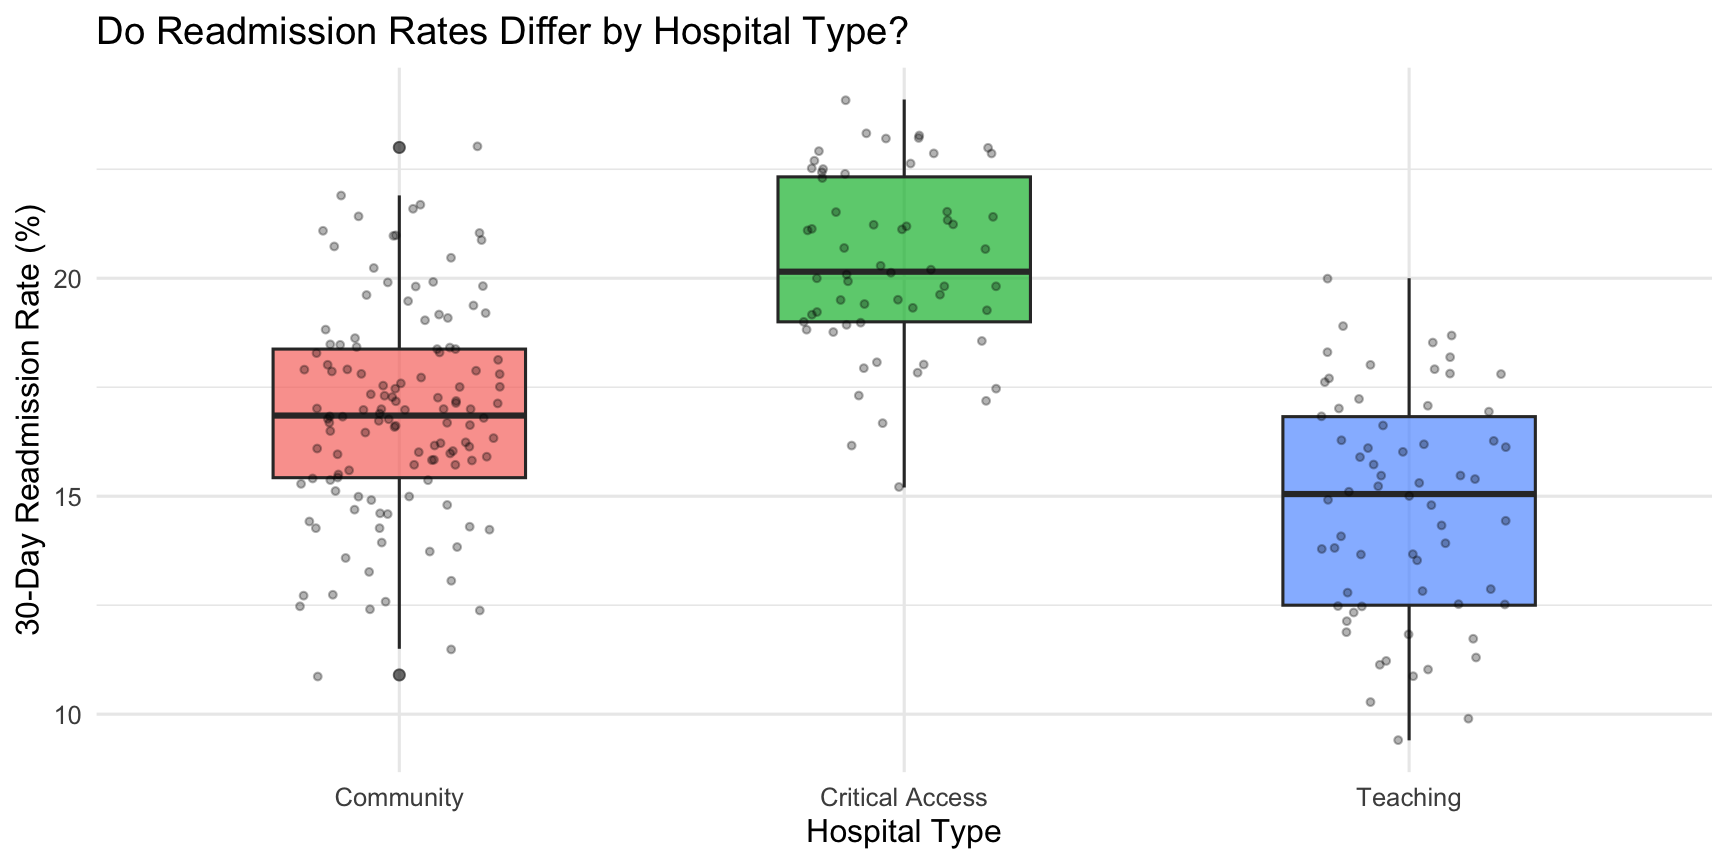
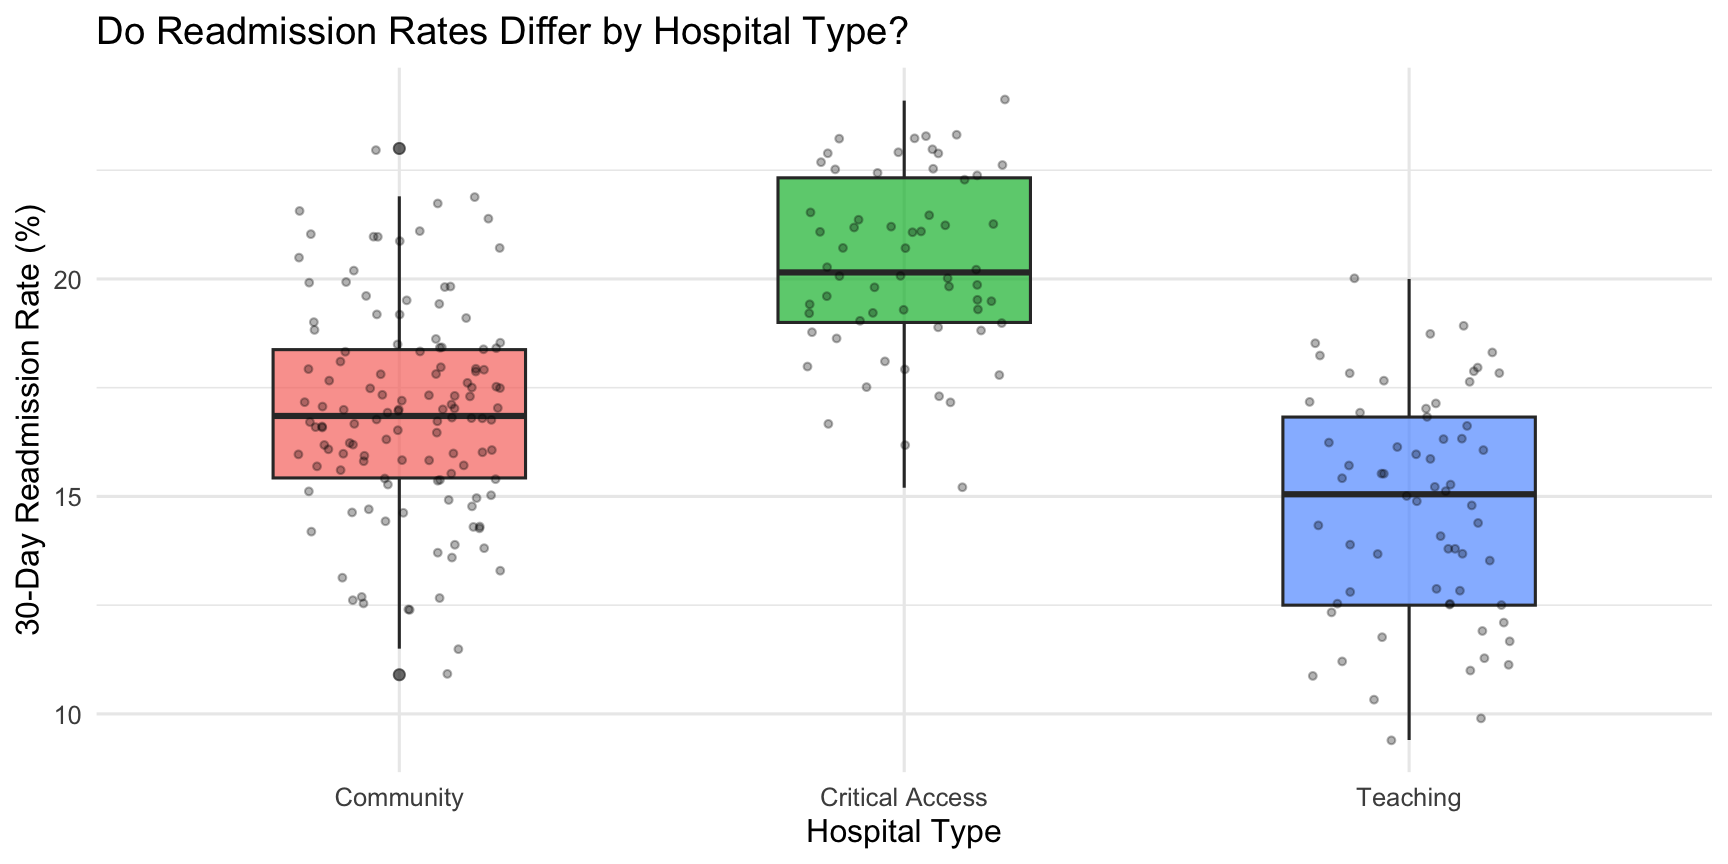
update

diff --git a/docs/lectures/Lecture13/Slide13.html b/docs/lectures/Lecture13/Slide13.html
@@ -10,7 +10,7 @@
   <meta name="generator" content="quarto-1.8.25">
 
   <meta name="author" content="">
-  <meta name="dcterms.date" content="2026-04-08">
+  <meta name="dcterms.date" content="2026-04-15">
   <title>Business Analytics in Healthcare Hanagement (MBA 642 - Spring 2026) – Logistic Regression</title>
   <meta name="apple-mobile-web-app-capable" content="yes">
   <meta name="apple-mobile-web-app-status-bar-style" content="black-translucent">
@@ -198,12 +198,12 @@
 
 <section id="title-slide" class="quarto-title-block center">
   <h1 class="title">Logistic Regression</h1>
-  <p class="subtitle">Week 13</p>
+  <p class="subtitle">Week 14</p>
 
 <div class="quarto-title-authors">
 </div>
 
-  <p class="date">2026-04-08</p>
+  <p class="date">2026-04-15</p>
 </section>
 <section id="todays-learning-goals" class="slide level2 scrollable">
 <h2>Today’s Learning Goals</h2>
@@ -1334,17 +1334,16 @@ Predicted   0   1
 <section id="assignments" class="slide level2 scrollable">
 <h2>Assignments</h2>
 <ol type="1">
-<li><strong>Week 13 Reflection</strong>: Please share your thoughts on the lecture</li>
+<li><strong>Week 14 Reflection</strong>: Please share your thoughts on the lecture</li>
 </ol>
 <ul>
 <li>3 interesting things</li>
 <li>3 confusing or unclear things</li>
 </ul>
-<p>Due by 11:59 PM on Sunday, April 12.</p>
-<div class="fragment">
-<p><br> 2. <strong>Lab Assignment 6</strong>: Logistic Regression</p>
-<p>We will postpone this assignment (will inform you next week)</p>
-</div>
+<ol start="2" type="1">
+<li><strong>Lab Assignment 6</strong>: Logistic Regression</li>
+</ol>
+<p>Both are due by 11:59 PM on Sunday, April 19.</p>
 </section>
 <section id="references" class="slide level2">
 <h2>References</h2>
@@ -1362,7 +1361,7 @@ Predicted   0   1
     </div>
   <div class="quarto-auto-generated-content" style="display: none;">
 <div class="footer footer-default">
-<p>Week 13 | Logistic Regression</p>
+<p>Week 14 | Logistic Regression</p>
 </div>
 </div></div>
 

diff --git a/docs/lectures/Lecture12/Slide12.html b/docs/lectures/Lecture12/Slide12.html
@@ -198,7 +198,7 @@
 
 <section id="title-slide" class="quarto-title-block center">
   <h1 class="title">Linear Regression 2: <br> Dummy Variables and Interaction Effects</h1>
-  <p class="subtitle">Week 12</p>
+  <p class="subtitle">Week 12 and Week 13</p>
 
 <div class="quarto-title-authors">
 </div>
@@ -1575,11 +1575,21 @@ Figure&nbsp;8
 <li>3 confusing or unclear things</li>
 </ul>
 <p>Due by 11:59pm on Sunday, April 5.</p>
-<p><br></p>
+</section>
+<section id="assignments-1" class="slide level2 scrollable">
+<h2>Assignments</h2>
 <ol start="2" type="1">
+<li><strong>Week 13 Reflection</strong>: Please share your thoughts on the lecture</li>
+</ol>
+<ul>
+<li>3 interesting things</li>
+<li>3 confusing or unclear things</li>
+</ul>
+<p><br></p>
+<ol start="3" type="1">
 <li><strong>Lab Assignment 5</strong>: Linear Regression</li>
 </ol>
-<p>Due by 11:59pm on Sunday, April 12.</p>
+<p>Both are due by 11:59pm on Sunday, April 12.</p>
 </section>
 <section id="references" class="slide level2">
 <h2>References</h2>

diff --git a/docs/lectures/Lecture13/Lecture13.html b/docs/lectures/Lecture13/Lecture13.html
@@ -6,7 +6,7 @@
 
 <meta name="viewport" content="width=device-width, initial-scale=1.0, user-scalable=yes">
 
-<meta name="dcterms.date" content="2026-04-06">
+<meta name="dcterms.date" content="2026-04-13">
 
 <title>Logistic Regression: Predicting Binary Outcomes in Healthcare – Business Analytics in Healthcare Hanagement (MBA 642 - Spring 2026)</title>
 <style>
@@ -343,7 +343,7 @@ window.Quarto = {
     <div>
     <div class="quarto-title-meta-heading">Published</div>
     <div class="quarto-title-meta-contents">
-      <p class="date">April 6, 2026</p>
+      <p class="date">April 13, 2026</p>
     </div>
   </div>
   
